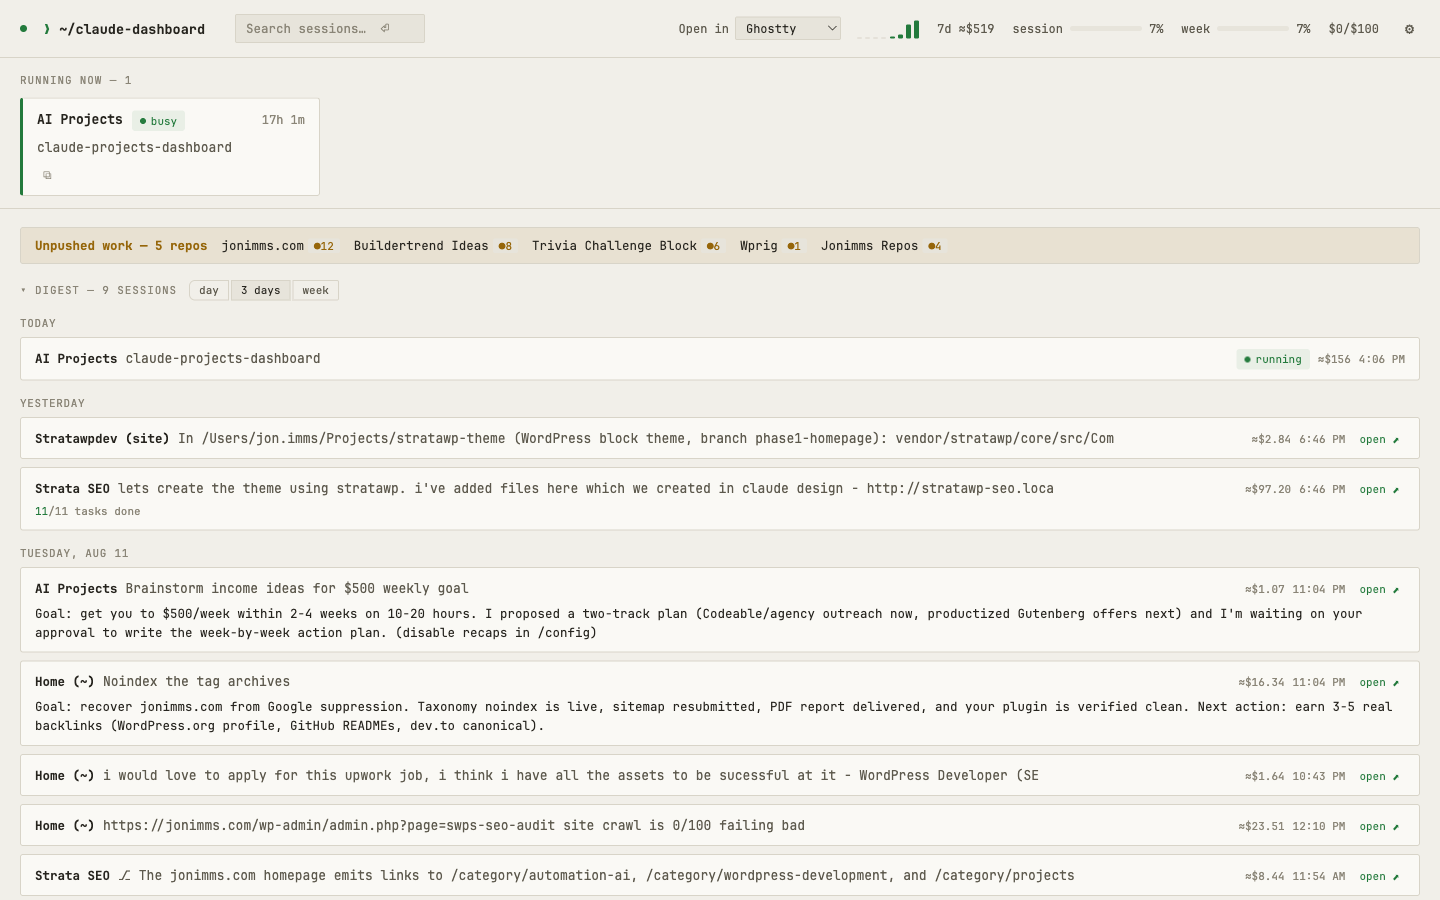
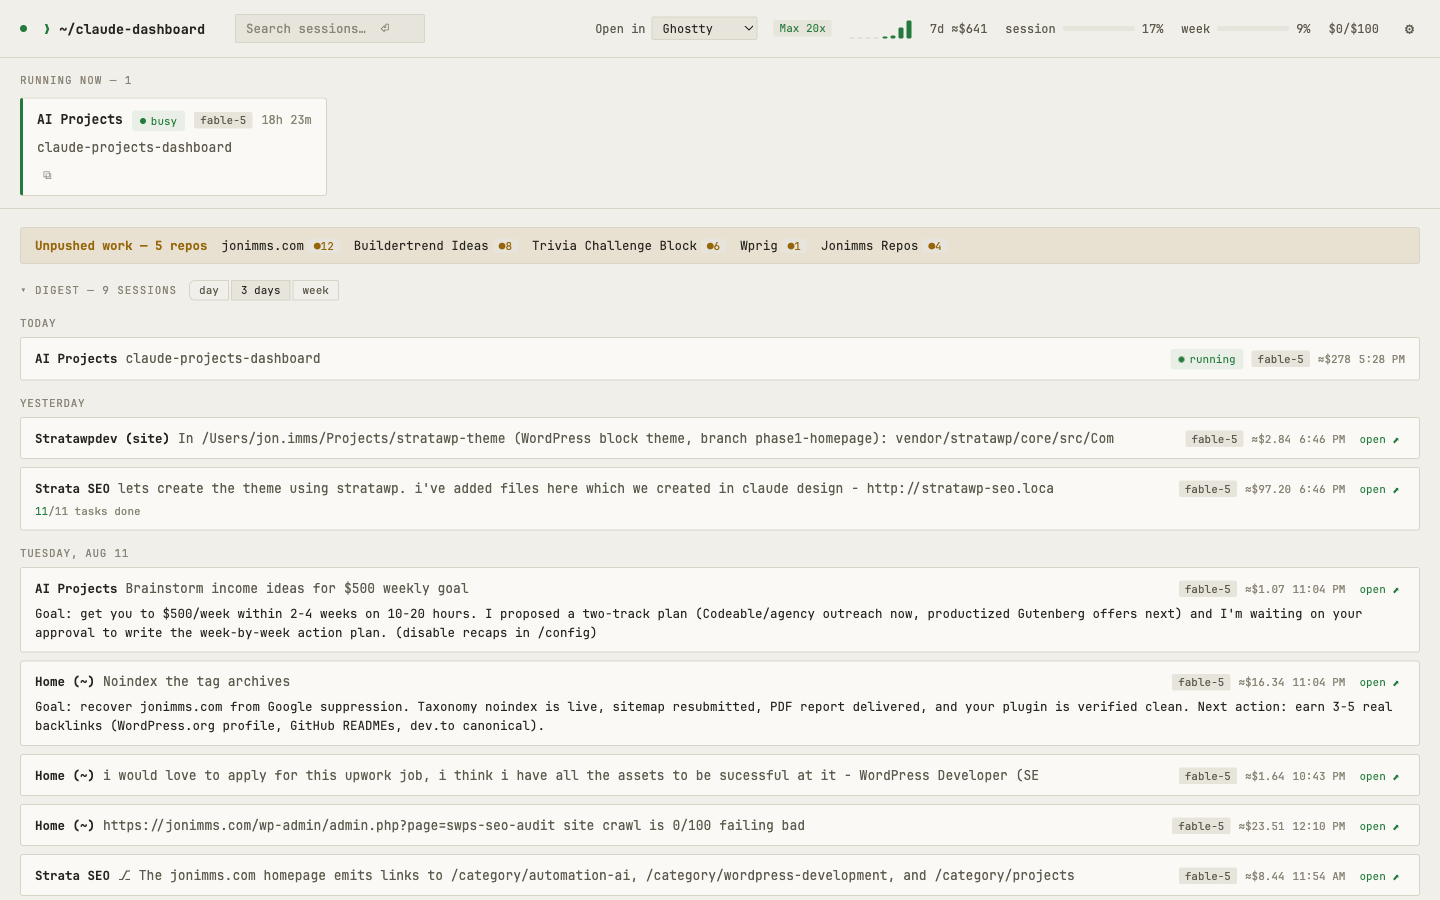
Refresh screenshots with plan badge, model chips, and stats view

diff --git a/README.md b/README.md
@@ -40,6 +40,8 @@ node server.js
 - **New session** — the `⊕` button on a project card opens a fresh terminal window in that project running `claude`.
 - **Cost trend** — the small bar chart in the header is estimated cost per week for the last 8 weeks (hover for numbers). Costs include subagent tokens.
 - **Models everywhere** — every session shows which model ran it (live cards, digest, session lists), and the stats view breaks down usage per model and per project.
+
+![Stats view: activity heatmap, busiest hours, and per-model / per-project cost breakdowns](docs/screenshots/stats.png)
 - **Project details** — click any project's name for a slide-over with its full session list, rendered CLAUDE.md, per-project memory files, skills/agents/commands from `.claude/`, and settings (permissions, MCP servers, allowed tools). Read-only; also a quick audit of which projects are missing instructions or memory. Esc closes.
 - **Unpushed work strip** — an amber band listing every repo with uncommitted changes (`●n`) or unpushed commits (`↑n`), sorted by recent activity. Disappears when everything's clean.
 - **Dormant** — projects with no activity for 60+ days, tucked away at the bottom.
